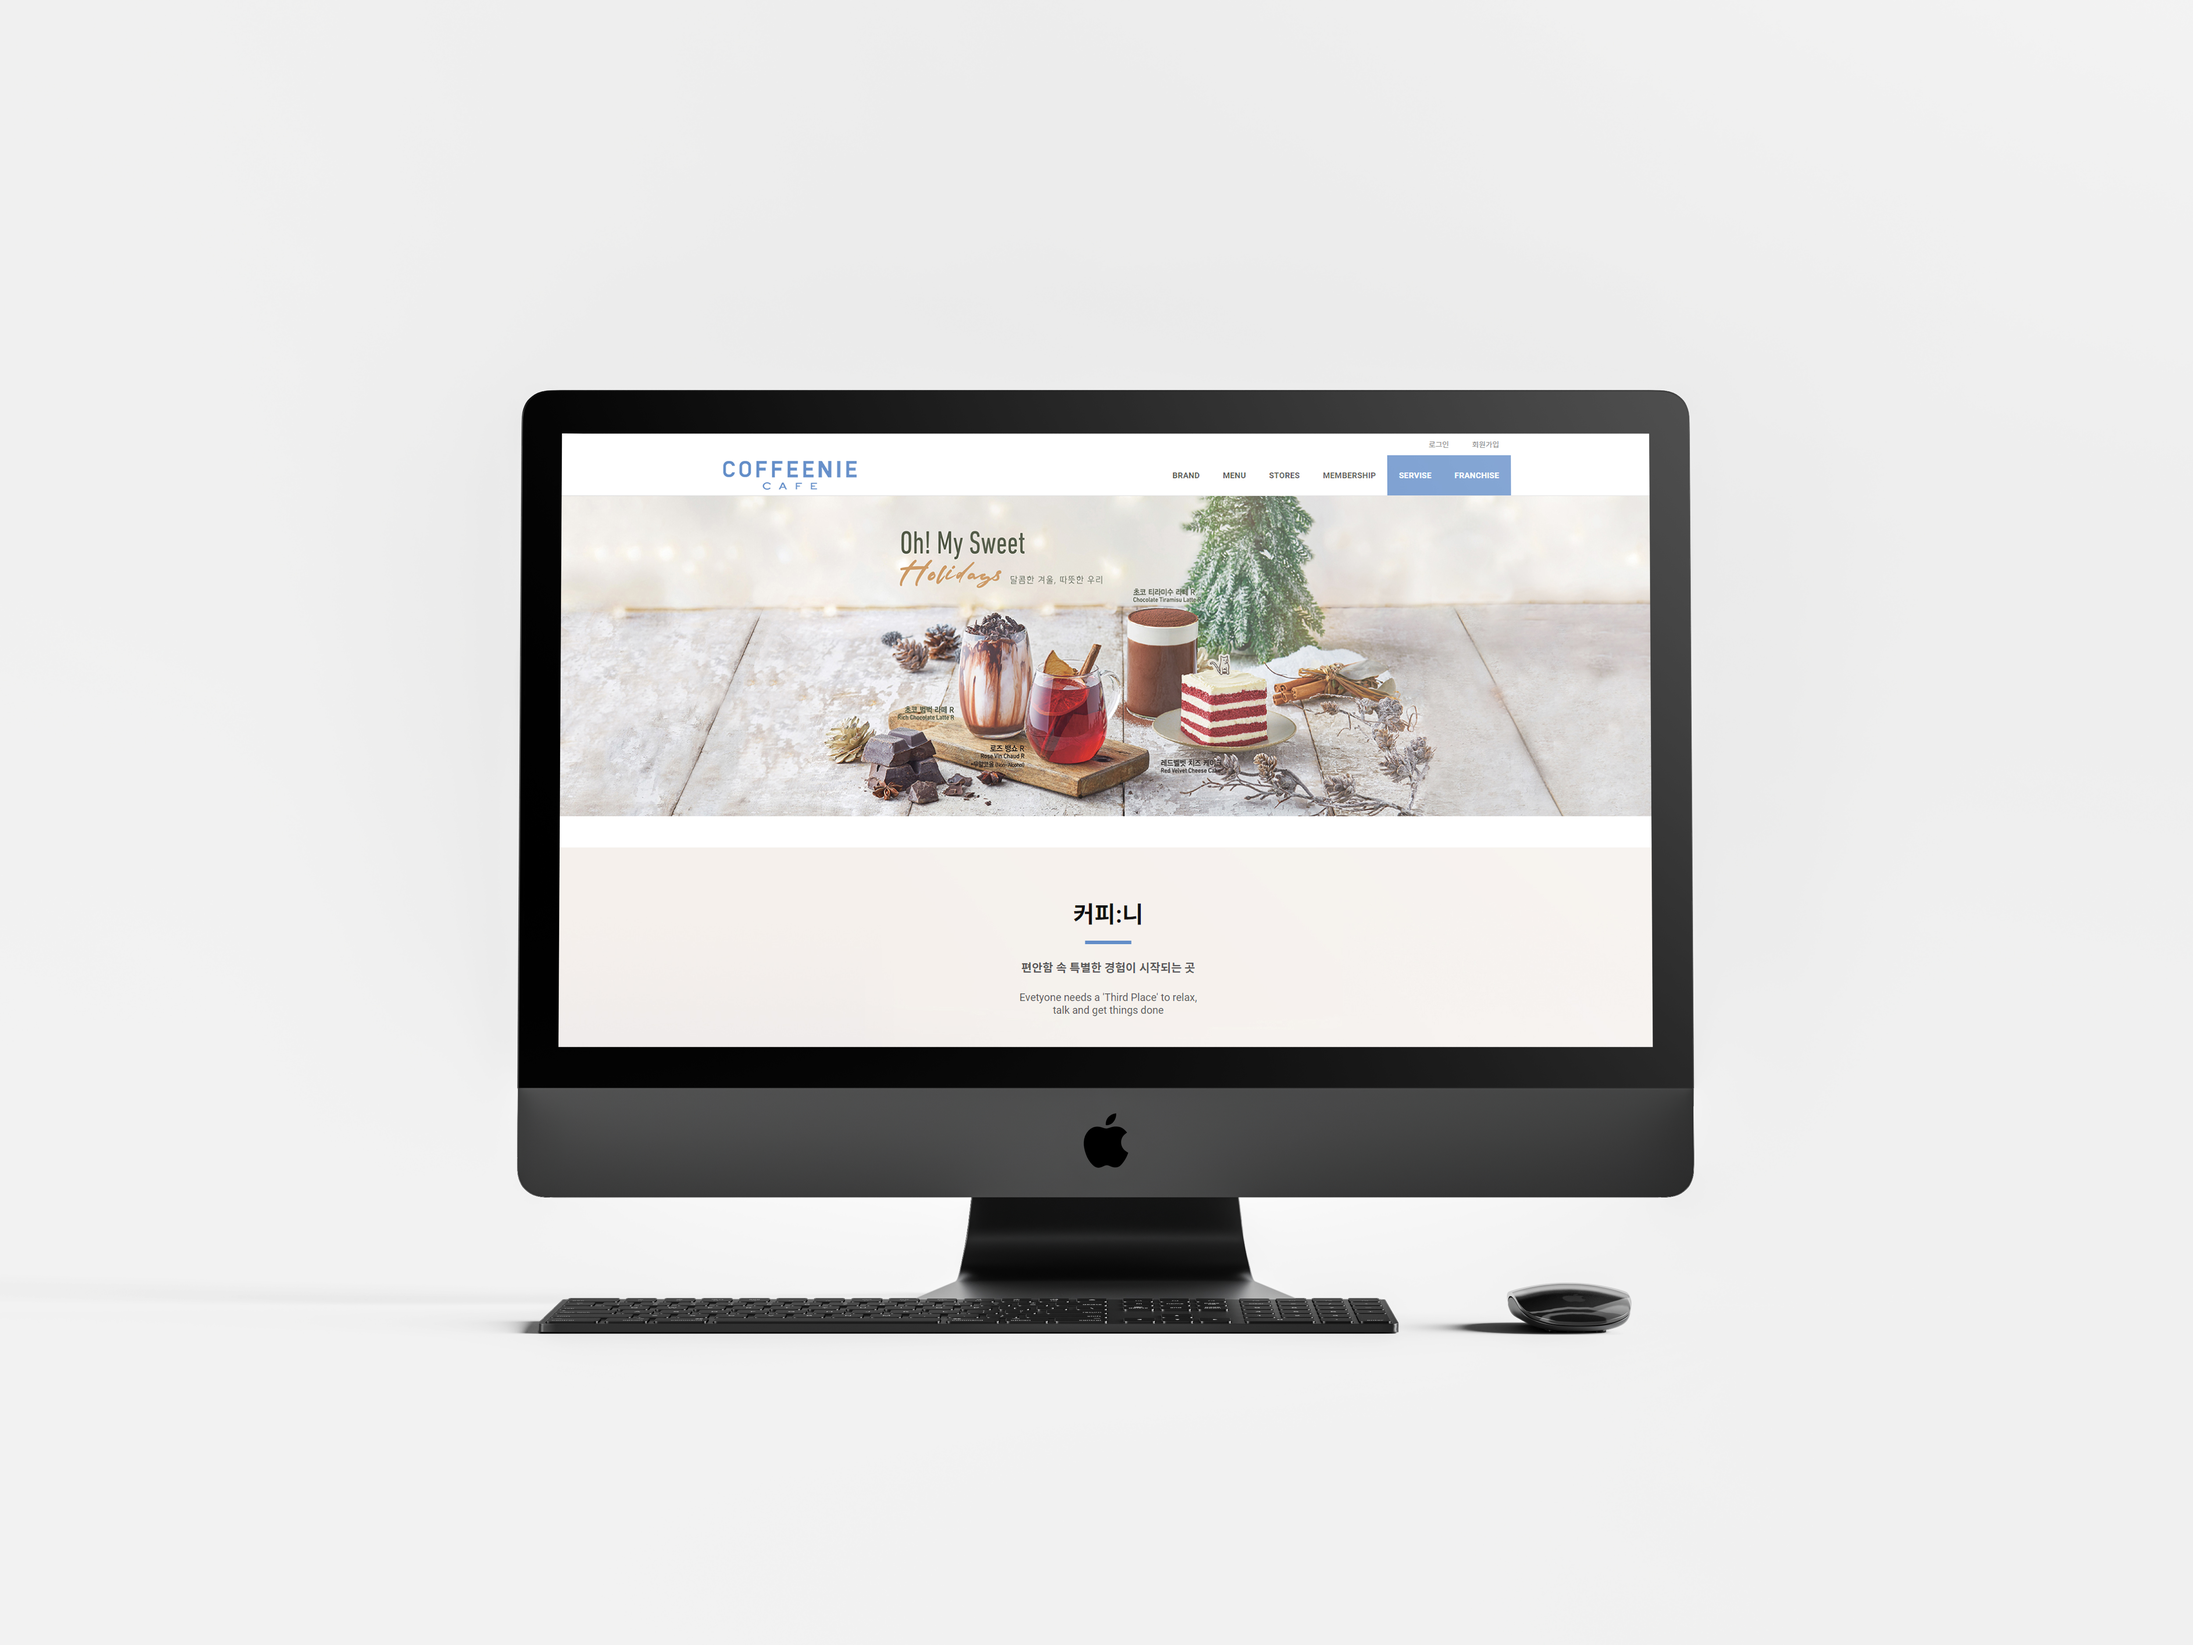
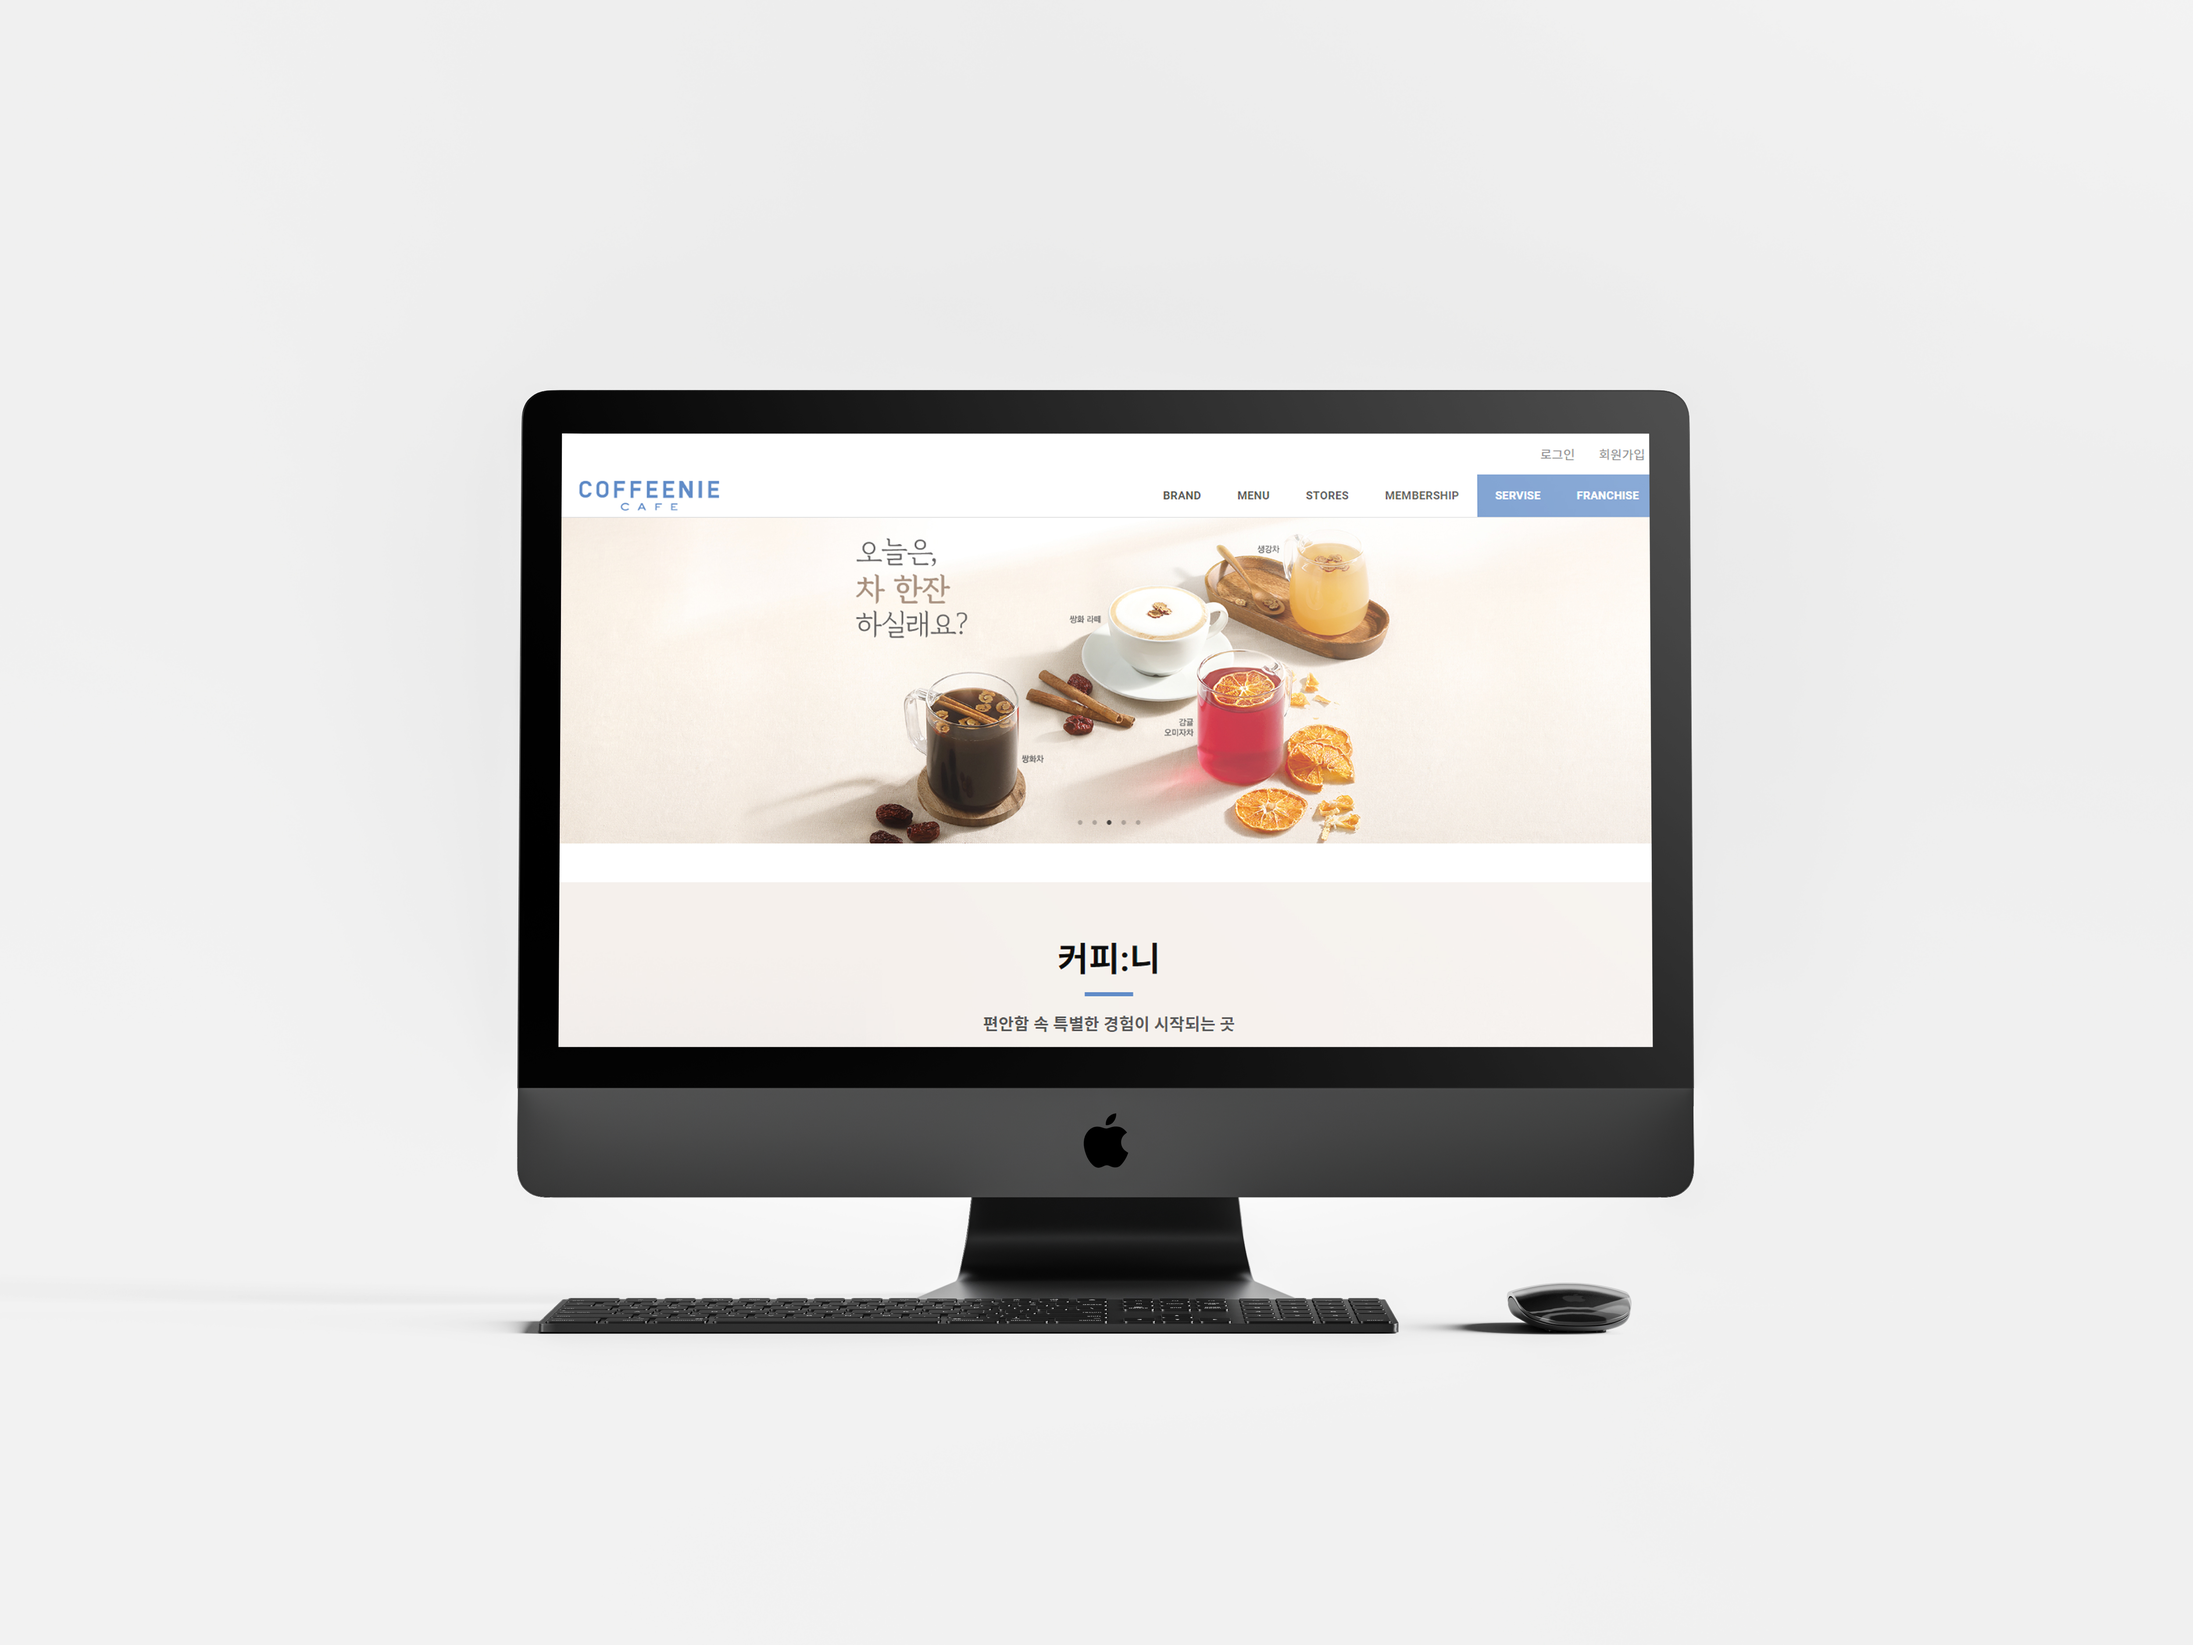
.

Changed region(s): [[0.2496, 0.2496, 0.78, 0.624]]

diff --git a/2021/my_pf/web_pf/coffeenie/css/style.css b/2021/my_pf/web_pf/coffeenie/css/style.css
@@ -122,10 +122,10 @@ h1,h2,h3,p{
     border-bottom: 0.5px solid #ddd;
     z-index:999;
 }
-
+/*뒤에 흰배경*/
 #header .menu_bg_white{
     width:100%;
-    height:260px;
+    height:300px;
     background-color: white;
     position: absolute;
     top:calc(100% + 0.5px);
@@ -140,8 +140,8 @@ h1,h2,h3,p{
 #header .menu_bar_top>li>a{
     display:block;
     padding: 0 10px;
-    font-size:0.8rem;
-    padding: 10px 20px;
+    font-size:1.3rem;
+    padding: 20px 20px;
     color:rgba(100,100,100);
 }
 #header .menu_bar_top>li:hover>a{
@@ -158,14 +158,14 @@ h1,h2,h3,p{
 }
     
 #header .menu_box_1>li{
-    font-size:0.9rem;
+    font-size:1.2rem;
     font-weight:bold;
     color:rgba(50,50,50);
     position: relative;
     
 }
 #header .menu_box_1 li>a{
-    padding: 0 20px;
+    padding: 0 30px;
 }
 #header .menu_box_1 li:hover>a{
     text-decoration: underline;
@@ -179,7 +179,7 @@ h1,h2,h3,p{
     display: none;
 }
 #header .menu_box_2>li{
-    font-size:0.8rem;
+    font-size:1.1rem;
     font-weight: 300;
 }
 
@@ -192,8 +192,9 @@ h1,h2,h3,p{
     position: absolute;
     top:calc(100% + 1px);
     width:100%;
-    height:260px;
+    height:300px;
     display: none;
+    
 }
 #header .menu_box_1 li:nth-child(5) .submenu_bg, #header .menu_box_1 li:nth-child(6) .submenu_bg{
     background-color: rgba(90,135,197);
@@ -202,7 +203,7 @@ h1,h2,h3,p{
 
 /*이미지슬라이드*/
 #imgslide{
-    top:100px;
+    top:140px;
     z-index: 5;
     max-width:1920px;
     margin:0 auto;
@@ -229,7 +230,7 @@ h1,h2,h3,p{
     width:100%;
     max-width:1920px;
     margin:0 auto;
-    margin-top:150px;
+    margin-top:200px;
     position: relative;
 }
 #main_box_1 img{
@@ -457,10 +458,14 @@ h1,h2,h3,p{
     transform: translate(-50%,-50%);
 }
 #main_box_4 .main_4_img .txt_box>h3{
-    font-size:2rem;
+    font-size:2.6rem;
 }
 #main_box_4 .main_4_img .txt_box>p{
     margin: 10px 0;
+    font-size: 1.5rem;
+}
+#main_box_4 .main_4_img .txt_box>u{
+    font-size: 1.1rem;
 }
 /*라인*/
 #main_box_4 .main_4_img .main_4_line{
@@ -477,13 +482,13 @@ h1,h2,h3,p{
 #footer{
     width:100%;
     max-width:1920px;
-    height:100px;
+    height:150px;
     background-color: #ddd;
     margin:0 auto;
 }
 
 #footer .ft_txt{
-    font-size: 0.9rem;
+    font-size: 1rem;
     margin: auto 0;
 }
 
@@ -501,14 +506,14 @@ h1,h2,h3,p{
     text-decoration: underline;
 }
 #footer .ft_txt .sub_txt{
-    font-size: 0.8rem;
+    font-size: 1rem;
     color:dimgray;
     padding:5px 50px;
     width:60%;
 }
 
 #footer .ft_txt .sub_box{
-    margin: 3px 0;
+    padding: 10px 0;
 }
 
 /*아이콘*/

diff --git a/2021/my_pf/css/style.css b/2021/my_pf/css/style.css
@@ -217,7 +217,7 @@ h1,h2,h3,p{
 #contents>section{
     width: 100%;
     height: 100vh;
-    border:red 1px solid;
+/*    border:red 1px solid;*/
     
 }
 /*홈*/
@@ -294,7 +294,7 @@ h1,h2,h3,p{
 #contents #about_me{
     width:100%;
     height:1800px;
-    padding:0 50px;
+    padding:0 0 0 50px;
     position: relative;
     overflow: hidden;
 }
